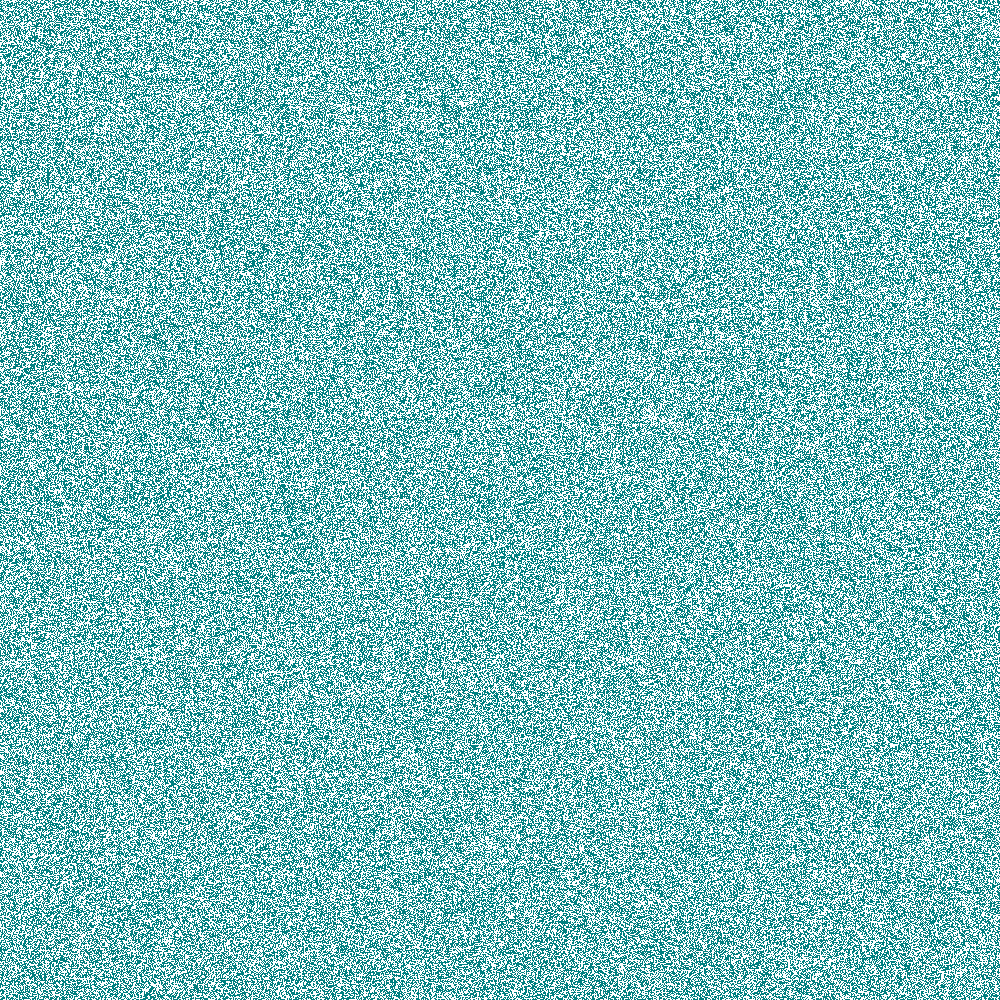
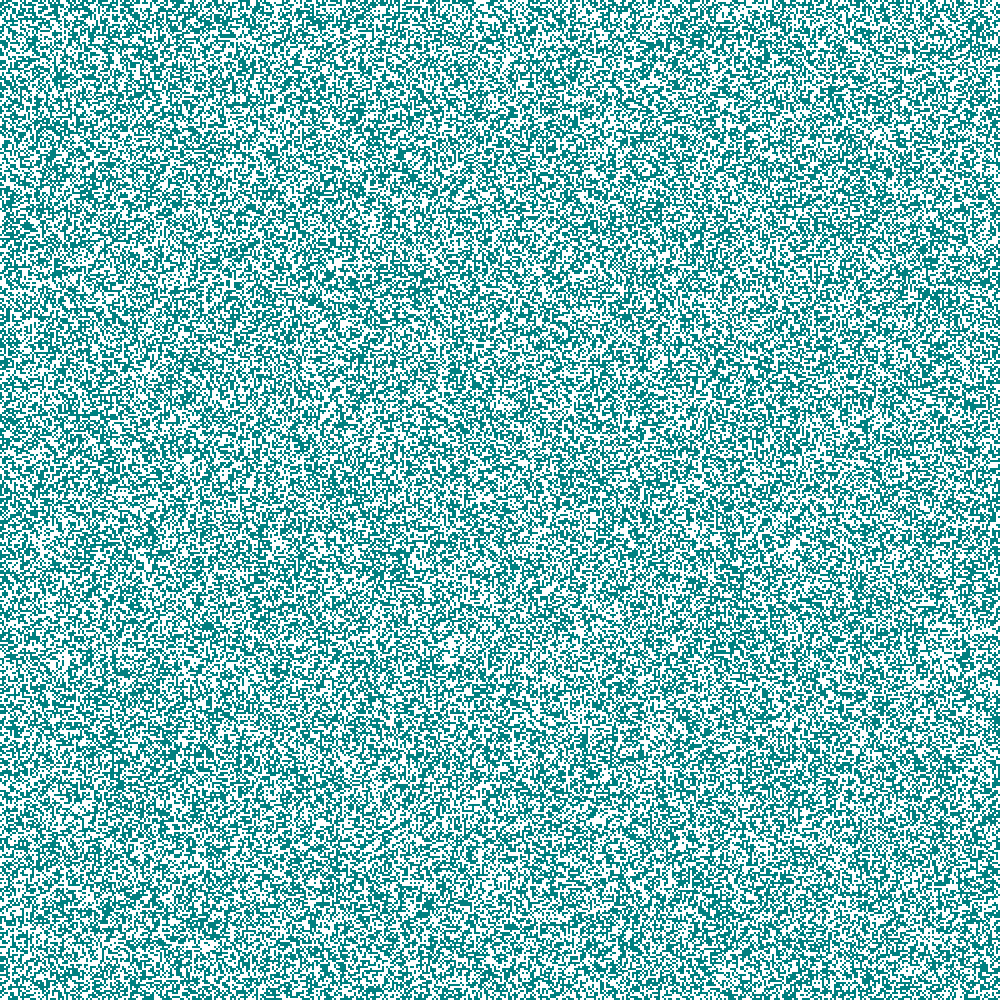
rem libm from the cargo.toml and use declaration.

diff --git a/src/main.rs b/src/main.rs
@@ -1,4 +1,3 @@
-//use libm::{exp, log, sqrt};
 use plotters::prelude::*;
 use rand::prelude::*;
 use rand_xoshiro::rand_core::SeedableRng;
@@ -28,7 +27,7 @@ in principle, but I will use 1 for the classic ferromagnetic case.
 */
 const J: i8 = 1;
 const STEPS: usize = 1000;
-const SIDE: usize = 1000; // Making a default for square arrays
+const SIDE: usize = 500; // Making a default for square arrays
 const NPIXELS: u32 = 1000; // Used for giving the size of a side of the PNG.
 const NROWS: usize = SIDE;
 const NCOLUMNS: usize = SIDE;
